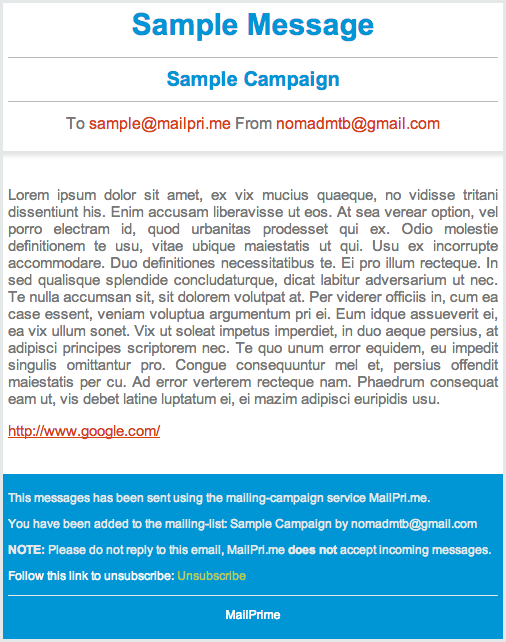
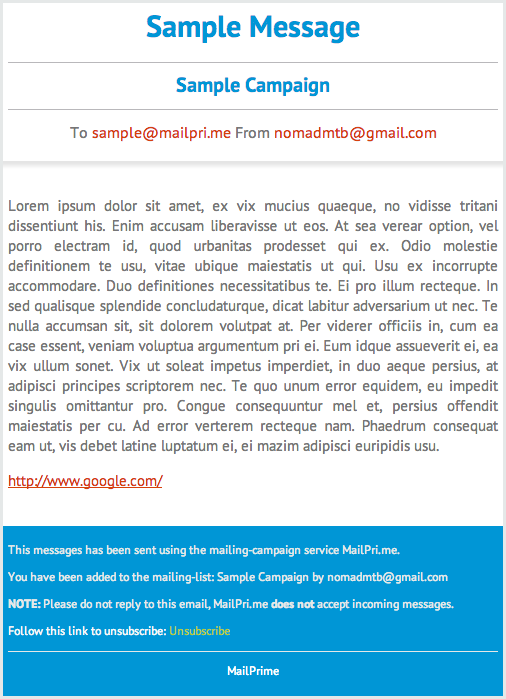
Updated styling for message show page

Changed region(s): [[0.0, 0.2804, 1.0, 0.9657], [0.1186, 0.0935, 0.8893, 0.2181], [0.2668, 0.0, 0.7411, 0.0623]]

diff --git a/mailprime/static/css/base.css b/mailprime/static/css/base.css
@@ -198,6 +198,51 @@ nav {
   -moz-border-radius: 20px;
   border-radius: 20px;
 }
+#slick_template_toggle {
+  margin-top: 10px;
+  width: 100%;
+  background-color: #bed9e6;
+  height: 50px;
+}
+#slick_template_toggle h3 {
+  display: block;
+  margin: 0;
+  padding: 0;
+  margin-left: 10px;
+  margin-right: 10px;
+  padding-top: 12px;
+  text-align: center;
+}
+#slick_wrapper {
+  width: 100%;
+  margin: 0 auto 50px;
+  background-color: #525453;
+}
+#slick_wrapper div h4 {
+  text-align: center;
+  display: block;
+  margin: 0 auto;
+  margin-bottom: 5px;
+  margin-top: 5px;
+  margin-left: 12px;
+  width: 85%;
+  color: #525453;
+  background-color: #bed9e6;
+}
+#update_message_header {
+  width: 100%;
+  height: 50px;
+  background-color: #bed9e6;
+}
+#update_message_header h3 {
+  display: block;
+  margin: 0;
+  padding: 0;
+  margin-left: 10px;
+  margin-right: 10px;
+  padding-top: 12px;
+  text-align: center;
+}
 #sample_message_toggle {
   width: 100%;
   height: 50px;
@@ -517,9 +562,6 @@ label {
   -moz-transition: box-shadow 0.3s ease;
   -webkit-transition: box-shadow 0.3s ease;
   -o-transition: box-shadow 0.3s ease;
-}
-#slick_wrapper {
-  width: 100%;
 }
 .campaign_wrapper {
   height: 200px;

diff --git a/mailprime/mailer/templates/message/show.html b/mailprime/mailer/templates/message/show.html
@@ -9,18 +9,25 @@
 	<!-- Rendered Sample Message; float left -->
 	<div id="sample_message_colapse">
 		<div id="sample_message_toggle">
-			<h3>Toggle Sample</h3>
+			<h3>Rendered Message</h3>
 		</div>
 		<iframe class="sample_message" src="{{ sample_link }}" frameborder="0"></iframe>
 	</div>
 
+	<div id="slick_template_toggle">
+		<h3>Available Templates</h3>
+	</div>
+
 	<div id="slick_wrapper">
 		{% for template in templates %}
-		<div><img width="250px" src="/static/images/sample_templates/{{ template.title }}.png" /></div>
+		<div><h4>{{ template.title }}</h4><img width="250px" src="/static/images/sample_templates/{{ template.title }}.png" /></div>
 		{% endfor %}
 	</div>
 
-	<!-- Form Used To Edit Message Obj; float right -->
+	<div id="update_message_header">
+		<h3>Update Your Message</h3>
+	</div>
+
 	<div class="form_right_wrapper">
 	<form id="new_campaign_form" method="post" action="/{{ user.username }}/campaign-{{ campaign.pk }}/message-{{ message.pk }}">
 	{% csrf_token %}
@@ -39,7 +46,7 @@
 	{% endfor %}
 	</ul>
 	<div class="clear_float"></div>
-	<input type="submit" name="submit" value="Submit Changes" />
+	<input type="submit" name="submit" value="Update" />
 </form>
 </div>
 

diff --git a/mailprime/static/css/base.less b/mailprime/static/css/base.less
@@ -258,6 +258,57 @@ nav {
 	border-radius: 20px;
 }
 
+#slick_template_toggle {
+	margin-top: 10px;
+	width: 100%;
+	background-color: @color-selected;
+	height: 50px;
+	h3 {
+		display: block;
+		margin: 0;
+		padding: 0;
+		margin-left: 10px;
+		margin-right: 10px;
+		padding-top: 12px;
+		text-align: center;
+	}
+}
+
+#slick_wrapper {
+	width: 100%;
+	margin: 0 auto 50px;
+	background-color: @color-dark;
+
+	div {
+		h4 {
+			text-align: center;
+			display: block;
+			margin: 0 auto;
+			margin-bottom: 5px;
+			margin-top: 5px;
+			margin-left: 12px;
+			width: 85%;
+			color: @color-dark;
+			background-color: @color-selected;
+		}
+	}
+}
+
+#update_message_header {
+	width: 100%;
+	height: 50px;
+	background-color: @color-selected;
+	h3 {
+		display: block;
+		margin: 0;
+		padding: 0;
+		margin-left: 10px;
+		margin-right: 10px;
+		padding-top: 12px;
+		text-align: center;
+	}
+}
+
 #sample_message_toggle {
 	width: 100%;
 	height: 50px;
@@ -592,10 +643,6 @@ label {
 	-moz-transition: box-shadow 0.3s ease;
 	-webkit-transition: box-shadow 0.3s ease;
 	-o-transition: box-shadow 0.3s ease;
-}
-
-#slick_wrapper {
-	width: 100%;
 }
 
 .campaign_wrapper {
